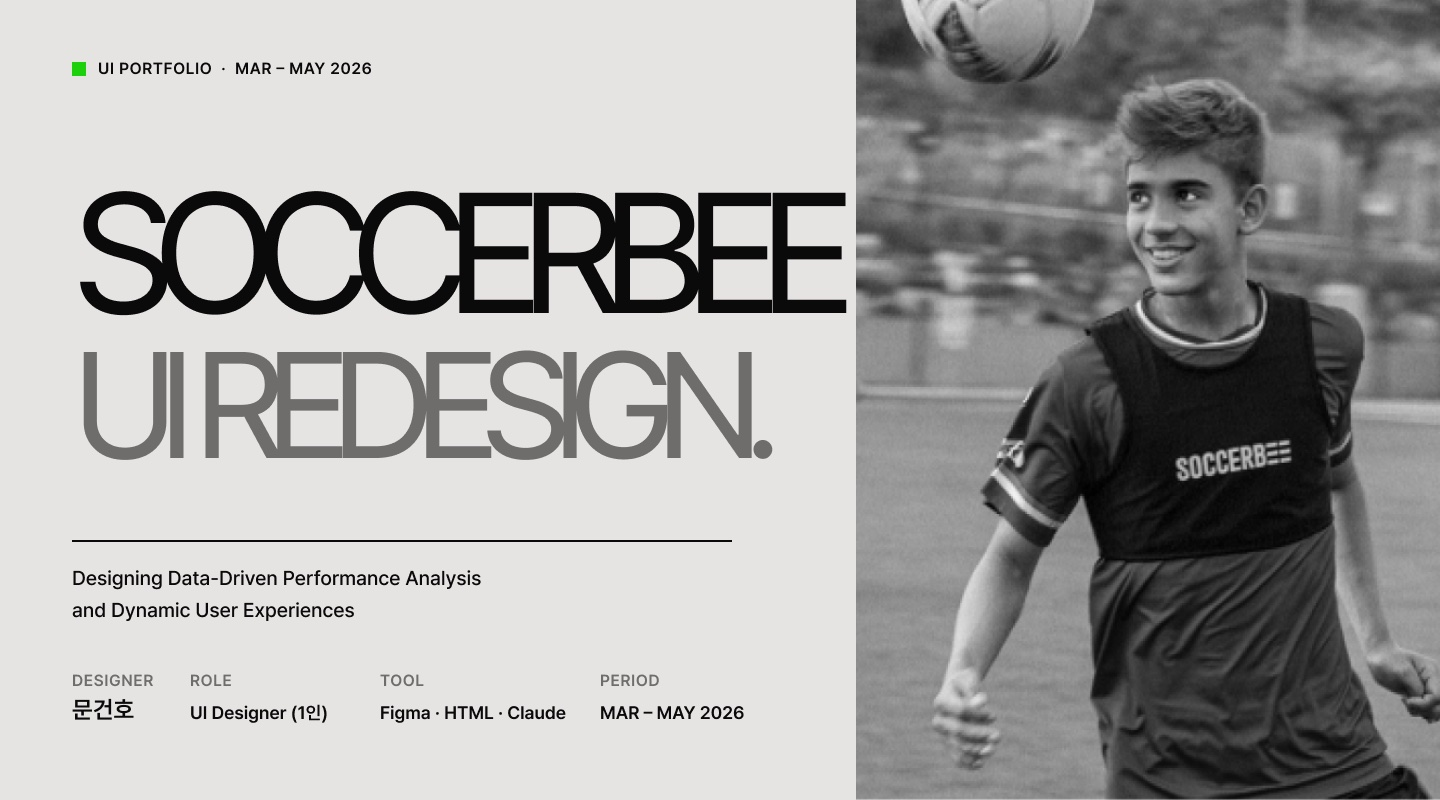
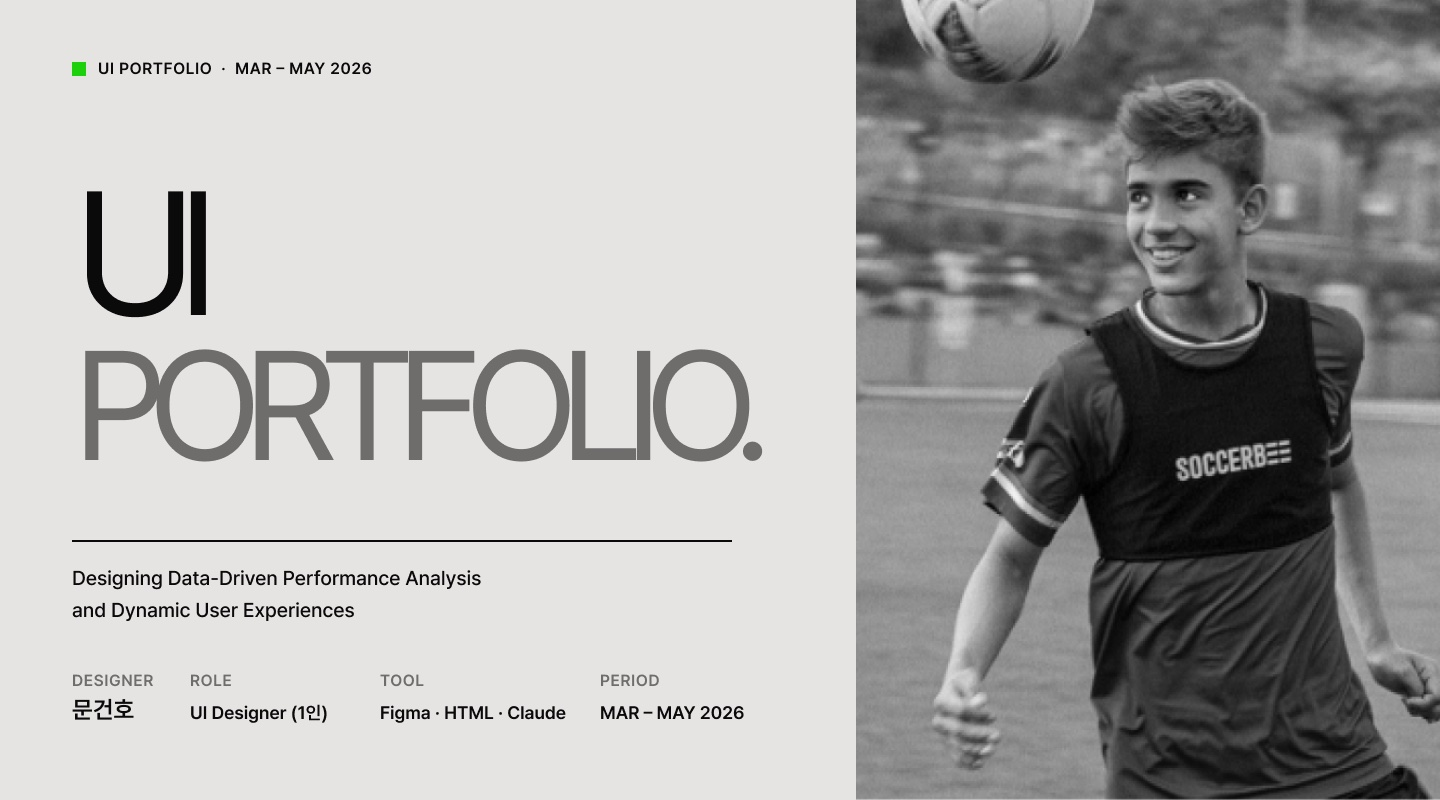
UI portfolio cover title: UI PORTFOLIO

Changed region(s): [[0.0312, 0.2188, 0.5938, 0.4062], [0.0625, 0.4375, 0.5312, 0.5938]]

diff --git a/ui-portfolio.html b/ui-portfolio.html
@@ -4,7 +4,7 @@
 <meta charset="utf-8">
 <meta name="viewport" content="width=device-width,initial-scale=1,viewport-fit=cover">
 <style>body{margin:0}img{max-width:100%}[hidden]{display:none!important}</style>
-<title>Soccerbee UI Redesign</title>
+<title>UI Portfolio</title>
 <link rel="preconnect" href="https://fonts.googleapis.com">
 <link rel="stylesheet" href="https://fonts.googleapis.com/css2?family=Anton&family=Noto+Sans+KR:wght@300;400;500;700;900&display=swap">
 <style>
@@ -248,7 +248,7 @@ a:focus-visible,button:focus-visible{outline:2px solid var(--green);outline-offs
   <div class="wrap">
     <div>
       <div class="tag mono"><i></i>UI PORTFOLIO · MAR – MAY 2026</div>
-      <h1>Soccerbee<span>UI Redesign.</span></h1>
+      <h1>UI<span>Portfolio.</span></h1>
       <p class="sub">Designing Data-Driven Performance Analysis and Dynamic User Experiences</p>
       <dl class="meta">
         <div><dt>Designer</dt><dd class="name">문건호</dd></div>
